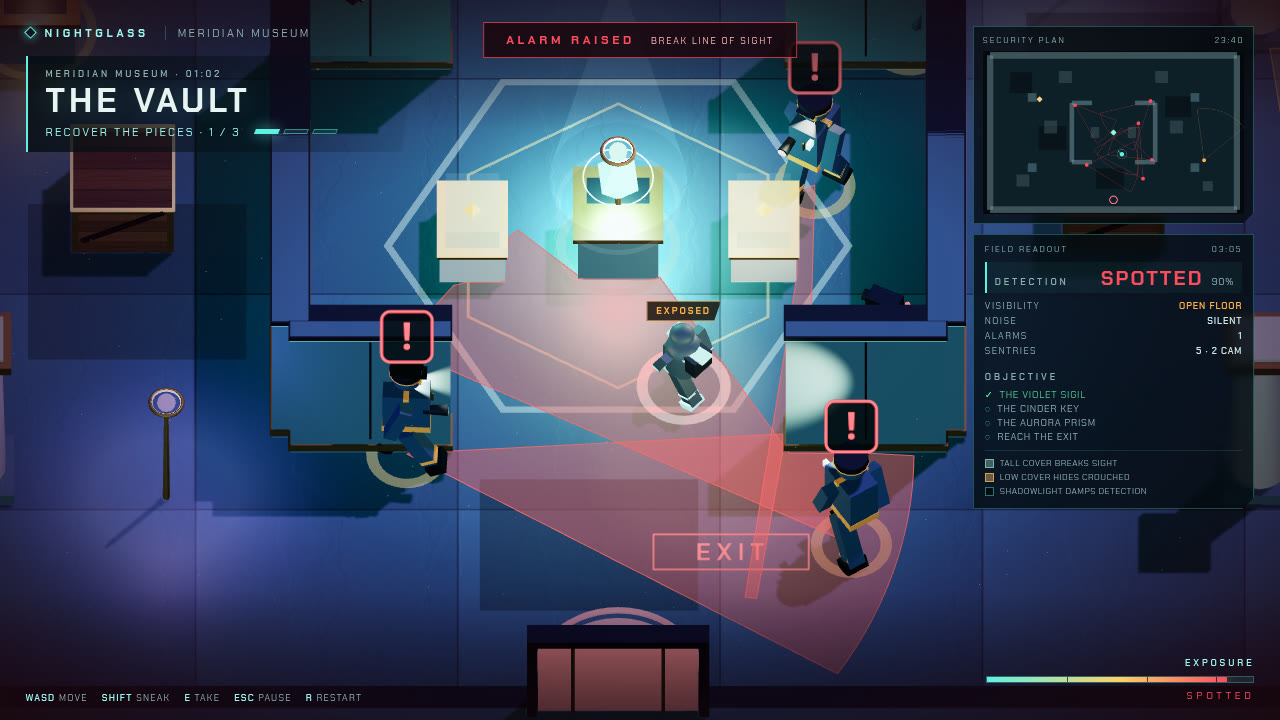
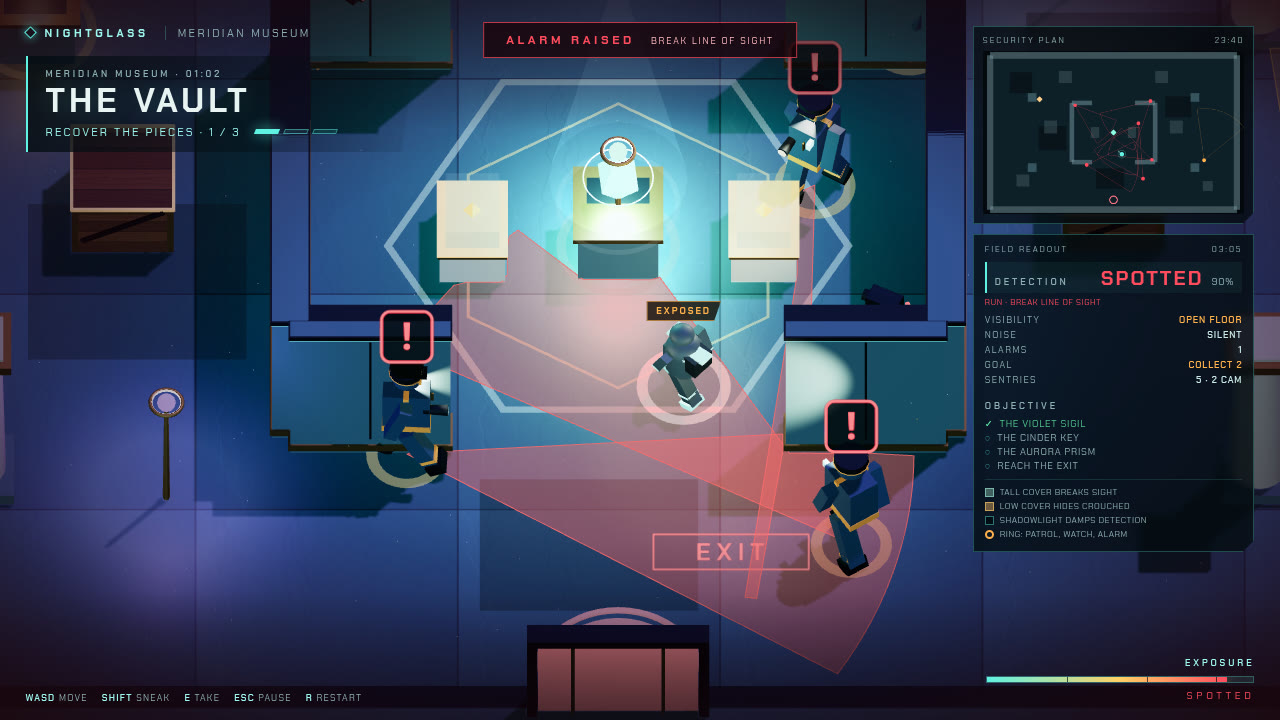
Explain the detection state, goal and guard rings in the field readout

diff --git a/game/src/hud.js b/game/src/hud.js
@@ -25,6 +25,8 @@ export function createHud() {
   const intelAlarms = element('intel-alarms');
   const intelSentries = element('intel-sentries');
   const intelTime = element('intel-time');
+  const intelHint = element('intel-hint');
+  const intelGoal = element('intel-goal');
   const objectives = element('intel-objectives');
   const coverTag = element('cover-tag');
   let toastTimer = 0;
@@ -89,9 +91,15 @@ export function createHud() {
       intelState.classList.toggle('spot', tier === 'spot');
       intelState.textContent = tier === 'spot' ? 'SPOTTED' : tier === 'watch' ? 'SUSPICIOUS' : 'CLEAR';
       intelPercent.textContent = `${Math.round(Math.max(0, Math.min(1, value)) * 100)}%`;
+      intelHint.textContent = tier === 'spot' ? 'RUN · BREAK LINE OF SIGHT' : tier === 'watch' ? 'A GUARD IS LOOKING · BREAK SIGHT' : 'NO ONE HAS SEEN YOU';
+      intelHint.classList.toggle('watch', tier === 'watch');
+      intelHint.classList.toggle('spot', tier === 'spot');
     },
 
     setIntel({ concealed, moving, crouching, alarms, time, relicsTaken, total, exitUnlocked }) {
+      intelGoal.textContent = exitUnlocked ? 'EXIT OPEN' : `COLLECT ${total - relicsTaken}`;
+      intelGoal.classList.toggle('hidden', exitUnlocked);
+      intelGoal.classList.toggle('exposed', !exitUnlocked);
       intelVisibility.textContent = concealed ? 'IN COVER' : 'OPEN FLOOR';
       intelVisibility.classList.toggle('hidden', concealed);
       intelVisibility.classList.toggle('exposed', !concealed);

diff --git a/game/index.html b/game/index.html
@@ -40,10 +40,12 @@
           <strong id="intel-state">CLEAR</strong>
           <em id="intel-percent">0%</em>
         </div>
+        <div class="detection-hint" id="intel-hint">NO ONE HAS SEEN YOU</div>
         <div class="intel-rows">
           <div><span>VISIBILITY</span><b id="intel-visibility">IN COVER</b></div>
           <div><span>NOISE</span><b id="intel-noise">SILENT</b></div>
           <div><span>ALARMS</span><b id="intel-alarms">0</b></div>
+          <div><span>GOAL</span><b id="intel-goal">COLLECT 3</b></div>
           <div><span>SENTRIES</span><b id="intel-sentries">0 · 0 CAM</b></div>
         </div>
         <div class="intel-objectives">
@@ -54,6 +56,7 @@
           <span><i class="tall"></i>Tall cover breaks sight</span>
           <span><i class="low"></i>Low cover hides crouched</span>
           <span><i class="shadow"></i>Shadowlight damps detection</span>
+          <span><i class="guard"></i>Ring: patrol, watch, alarm</span>
         </div>
       </div>
     </div>

diff --git a/game/styles.css b/game/styles.css
@@ -310,6 +310,16 @@ html, body {
   color: var(--muted);
 }
 
+.detection-hint {
+  margin: -3px 0 7px;
+  font-size: 8px;
+  letter-spacing: 0.08em;
+  color: var(--muted);
+  text-transform: uppercase;
+}
+.detection-hint.watch { color: var(--amber); }
+.detection-hint.spot { color: var(--red); }
+
 .intel-rows {
   display: grid;
   gap: 3px;
@@ -366,6 +376,7 @@ html, body {
 .intel-legend i.tall { background: #42625f; border: 1px solid #7ab6ac; }
 .intel-legend i.low { background: #6d5a3f; border: 1px solid #c9a35a; }
 .intel-legend i.shadow { background: #020d13; border: 1px solid rgba(95, 242, 227, 0.45); }
+.intel-legend i.guard { background: transparent; border: 2px solid var(--amber); border-radius: 50%; }
 
 .cover-tag {
   position: fixed;
